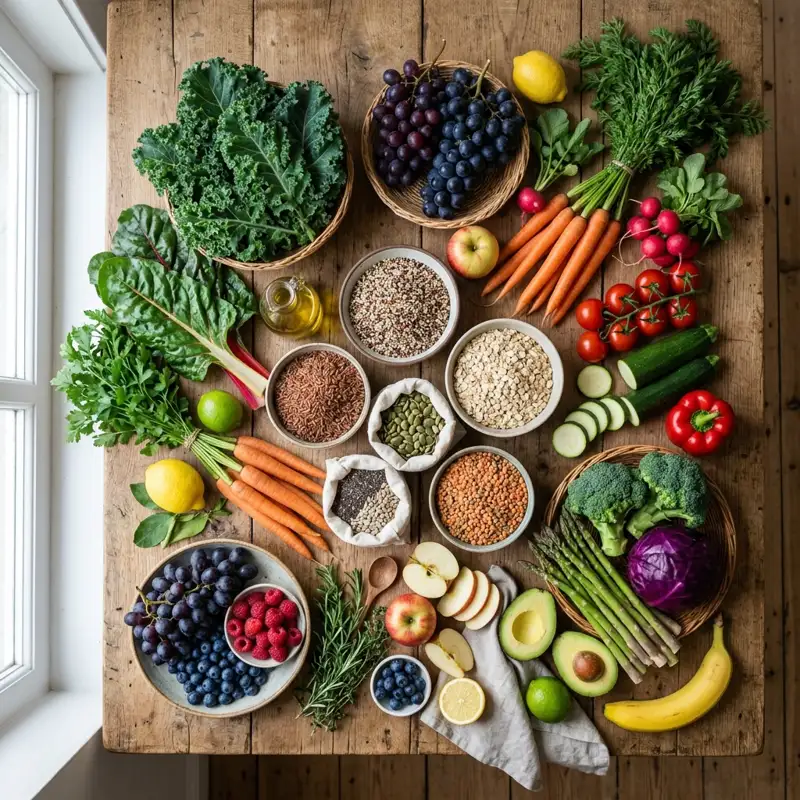
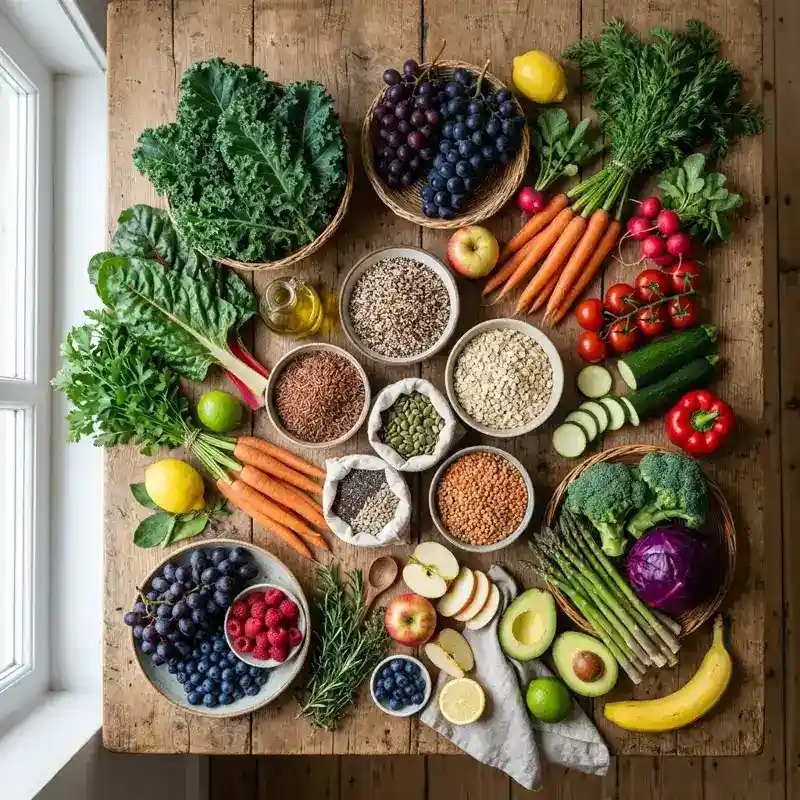
Add files via upload

diff --git a/admindashboard.html b/admindashboard.html
@@ -137,13 +137,7 @@
                             <p>Appointments</p>
                         </div>
                     </div>
-                    <div class="glass-card stat-card">
-                        <div class="stat-icon"><i class="ri-money-dollar-circle-line"></i></div>
-                        <div class="stat-details">
-                            <h3>$54,200</h3>
-                            <p>Revenue</p>
-                        </div>
-                    </div>
+
                 </div>
 
                 <div style="display: grid; grid-template-columns: repeat(auto-fit, minmax(min(100%, 400px), 1fr)); gap: 30px;">